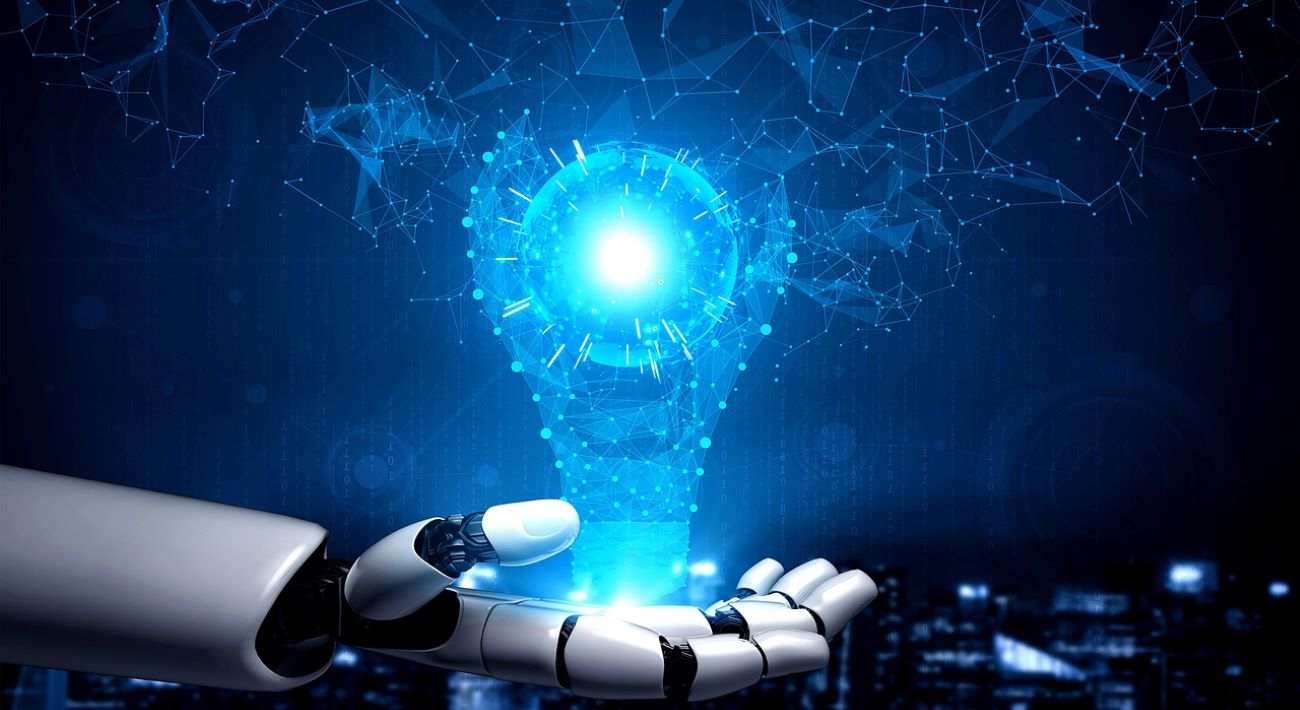
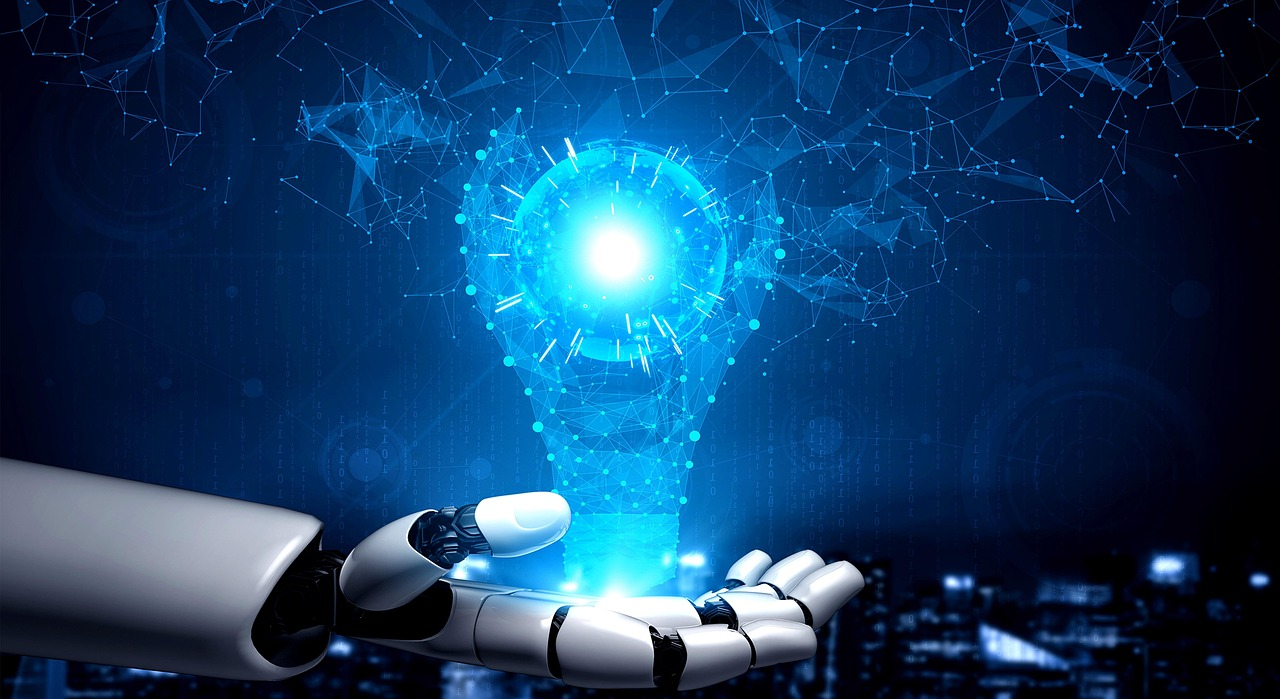
time and date manage

diff --git a/resources/views/backend/layoutes/mainpanel.blade.php b/resources/views/backend/layoutes/mainpanel.blade.php
@@ -4,26 +4,39 @@
             <div class="col-md-12 grid-margin">
               <div class="row">
                 <div class="col-12 col-xl-8 mb-4 mb-xl-0">
-                  <h3 class="font-weight-bold">Welcome John</h3>
+                  <h3 class="font-weight-bold">Welcome Admin</h3>
                   <h6 class="font-weight-normal mb-0">All systems are running smoothly! You have <span
                       class="text-primary">3 unread alerts!</span></h6>
                 </div>
-                <div class="col-12 col-xl-4">
-                  <div class="justify-content-end d-flex">
-                    <div class="dropdown flex-md-grow-1 flex-xl-grow-0">
-                      <button class="btn btn-sm btn-light bg-white dropdown-toggle" type="button" id="dropdownMenuDate2"
-                        data-bs-toggle="dropdown" aria-haspopup="true" aria-expanded="true">
-                        <i class="mdi mdi-calendar"></i> Today (10 Jan 2021) </button>
-                      <div class="dropdown-menu dropdown-menu-right" aria-labelledby="dropdownMenuDate2">
-                        <a class="dropdown-item" href="#">January - March</a>
-                        <a class="dropdown-item" href="#">March - June</a>
-                        <a class="dropdown-item" href="#">June - August</a>
-                        <a class="dropdown-item" href="#">August - November</a>
-                      </div>
-                    </div>
-                  </div>
-                </div> 
-              </div>
+             <div class="col-12 col-xl-4">
+  <div class="justify-content-end d-flex">
+    <div class="dropdown flex-md-grow-1 flex-xl-grow-0">
+      <button class="btn btn-sm btn-light bg-white dropdown-toggle" type="button" id="dropdownMenuDate2"
+        data-bs-toggle="dropdown" aria-haspopup="true" aria-expanded="true">
+        <i class="mdi mdi-calendar"></i> <span id="current-date"></span>
+      </button>
+      <div class="dropdown-menu dropdown-menu-right" aria-labelledby="dropdownMenuDate2">
+        <a class="dropdown-item" href="#">January - March</a>
+        <a class="dropdown-item" href="#">March - June</a>
+        <a class="dropdown-item" href="#">June - August</a>
+        <a class="dropdown-item" href="#">August - November</a>
+      </div>
+    </div>
+  </div>
+</div>
+
+<script>
+  // Get today's date
+  const today = new Date();
+
+  // Format the date like: "Today (25 Jul 2025)"
+  const options = { day: '2-digit', month: 'short', year: 'numeric' };
+  const formatted = today.toLocaleDateString('en-GB', options); // e.g., "25 Jul 2025"
+
+  // Update the HTML
+  document.getElementById("current-date").innerText = `Today (${formatted})`;
+</script>
+
             </div>
           </div>
 

diff --git a/resources/views/frontend/includes/navbar.blade.php b/resources/views/frontend/includes/navbar.blade.php
@@ -15,8 +15,8 @@
                         onclick="toggleDropdown()" 
                         id="profileButton">
                     <span class="text-gray-300 hover:text-white font-medium">{{ $authUser->name }}</span>
-                    @if(!empty($authUser->profile) && file_exists(public_path($authUser->profile)))
-                        <img src="{{ asset($authUser->profile) }}" alt="profile" class="rounded-full border-2 border-gray-600 hover:border-white transition-colors duration-300" style="height: 50px; width: auto;" />
+                    @if(!empty($authUser->profile))
+                        <img src="{{ asset($authUser->profile) }}" alt="profile" class="rounded-full border-2 border-gray-600 hover:border-white transition-colors duration-300" style="height: 50px; width: auto;" onerror="this.onerror=null;this.src='{{ asset('backend/images/faces/face28.jpg') }}';" />
                     @else
                         <img src="{{ asset('backend/images/faces/face28.jpg') }}" alt="profile" class="rounded-full border-2 border-gray-600 hover:border-white transition-colors duration-300" style="height: 50px; width: auto;" />
                     @endif

diff --git a/resources/views/backend/includes/navbar.blade.php b/resources/views/backend/includes/navbar.blade.php
@@ -42,7 +42,7 @@
             <a class="nav-link dropdown-toggle d-flex align-items-center" href="#" data-bs-toggle="dropdown" id="profileDropdown">
               @auth
                 <span class="me-2">{{ $authUser->name }}</span>
-                @if(!empty($authUser->profile) && file_exists(public_path($authUser->profile)))
+                @if(!empty($authUser->profile))
                     <img src="{{ asset($authUser->profile) }}" alt="profile" style="height: 50px; width: 50px; border-radius: 50%; border: 2px solid #000;" />
                 @else
                     <img src="{{ asset('backend/images/faces/face28.jpg') }}" alt="profile" style="height: 50px; width: 50px; border-radius: 50%; border: 2px solid #000;" />

diff --git a/database/migrations/2025_07_16_142258_alter_users_table_add_role_profile.php b/database/migrations/2025_07_16_142258_alter_users_table_add_role_profile.php
@@ -15,7 +15,7 @@ class AlterUsersTableAddRoleProfile extends Migration
     {
          Schema::table('users', function (Blueprint $table) {
         $table->enum('role', ['admin', 'user'])->default('user'); // Add role column i want set defult value user
-        $table->string('profile')->nullable();           // Add profile column
+        $table->string('profiles')->nullable();           // Add profile column
     });
     }
 
